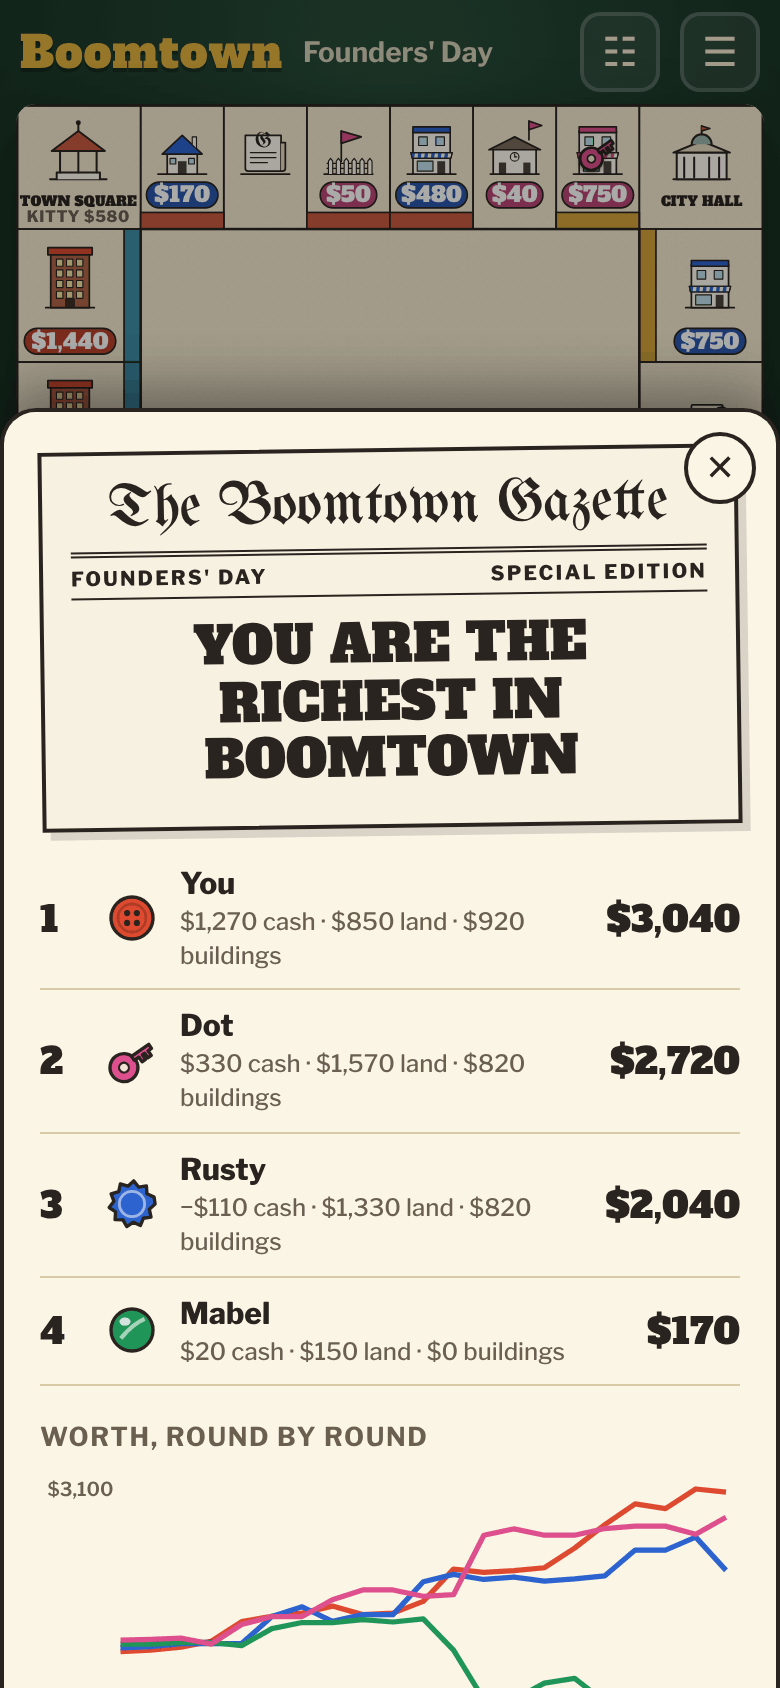
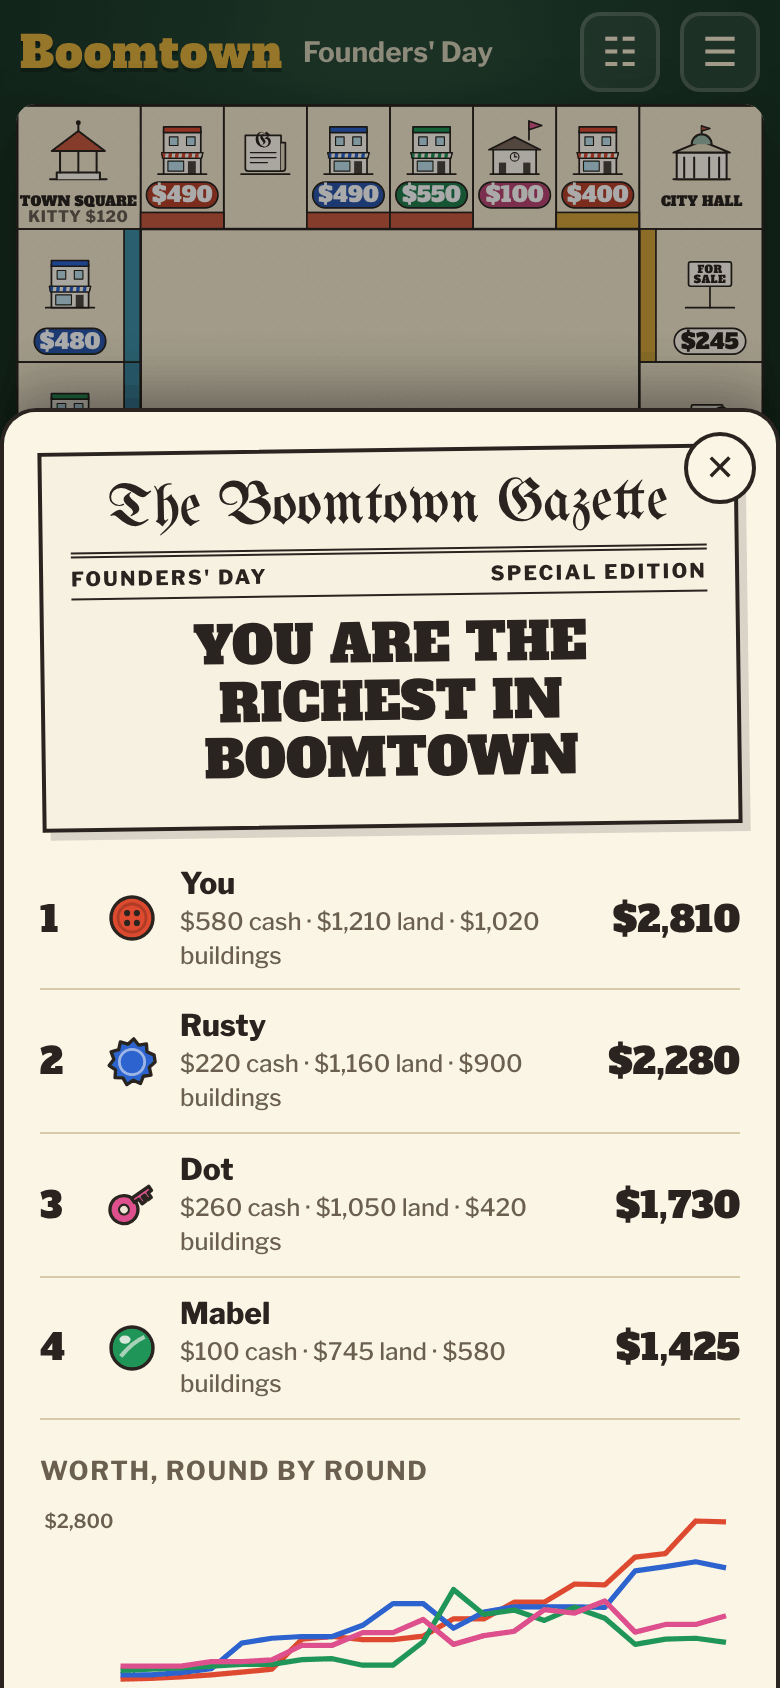
Redraw Founders' Day for the README with a game the person wins
The townsfolk now play the end of a game differently, so the seeded game
the Founders' Day screenshot comes from ended with Mabel richest. It now
comes from another seed, where the person wins with $2,810 against
Rusty's $2,280, and the README's description says so. The other
screenshots and the link preview come out the same.

Claude-Session: https://claude.ai/code/session_01PQbLNVJ8KKLwSDBzcGfBFP

diff --git a/README.md b/README.md
@@ -9,7 +9,7 @@
   &nbsp;
   <img src="docs/phone-gazette.png" alt="The Boomtown Gazette, round 14: DOCTOR BUILDS ON THE HILL. Everyone wants the view now. Hilltop land goes up 20%" width="250">
   &nbsp;
-  <img src="docs/phone-founders-day.png" alt="Founders' Day: the Gazette's special edition says You are the richest in Boomtown, with $3,040 against Dot's $2,720, then each player's cash, land and buildings, and a chart of everyone's worth round by round" width="250">
+  <img src="docs/phone-founders-day.png" alt="Founders' Day: the Gazette's special edition says You are the richest in Boomtown, with $2,810 against Rusty's $2,280, then each player's cash, land and buildings, and a chart of everyone's worth round by round" width="250">
 </p>
 
 ## How it plays
